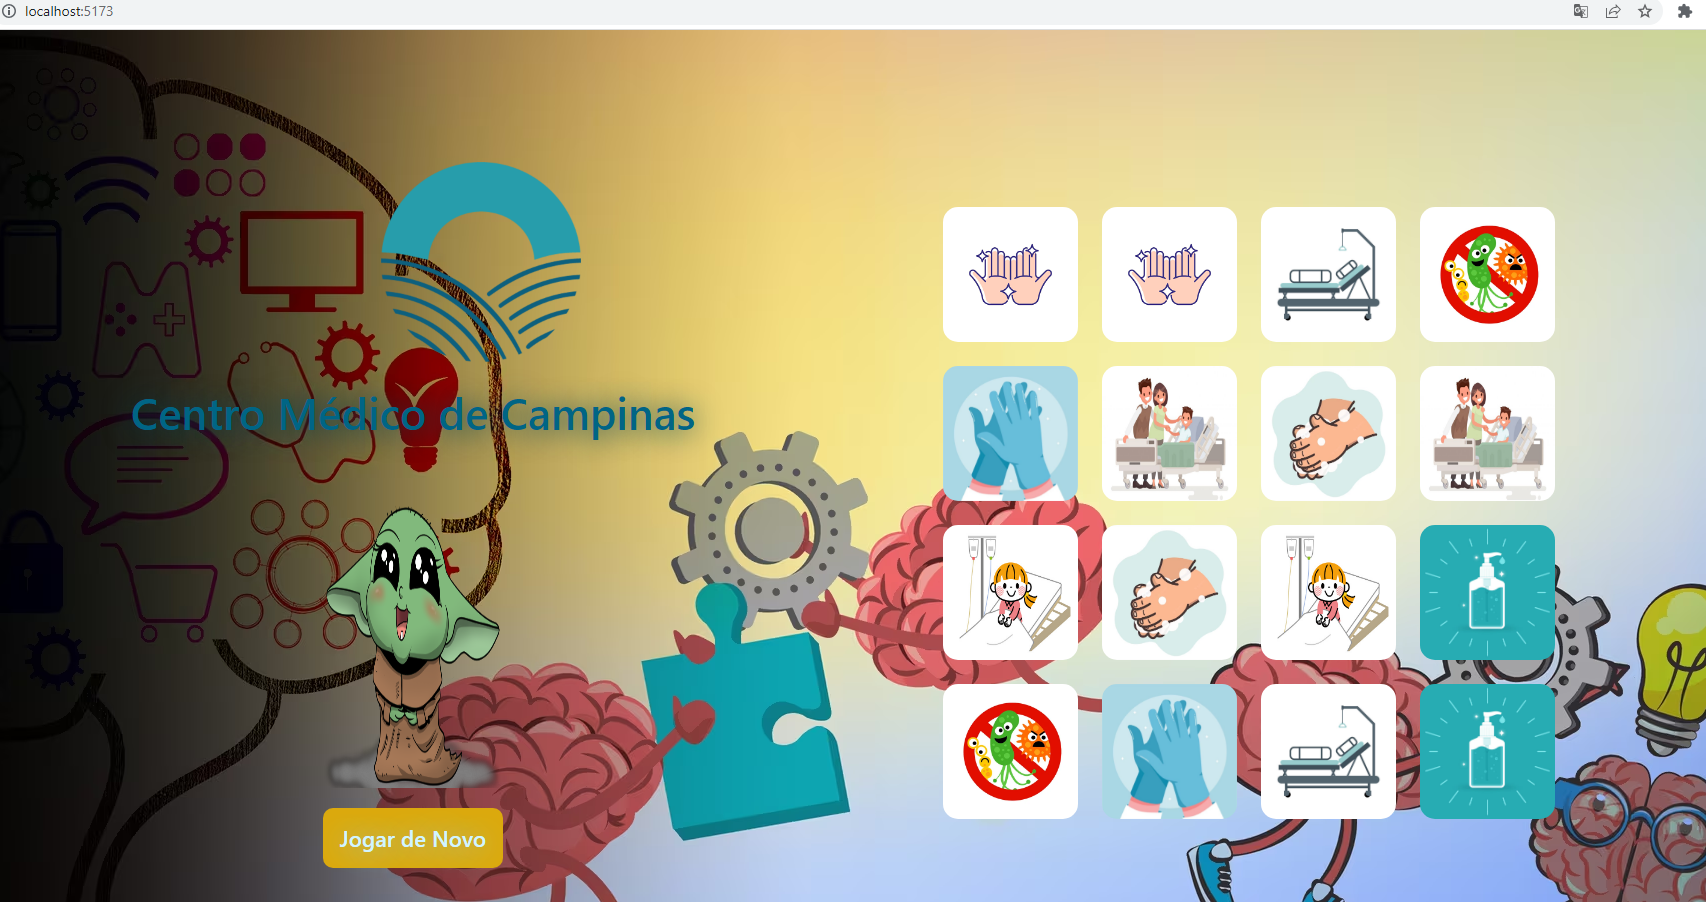
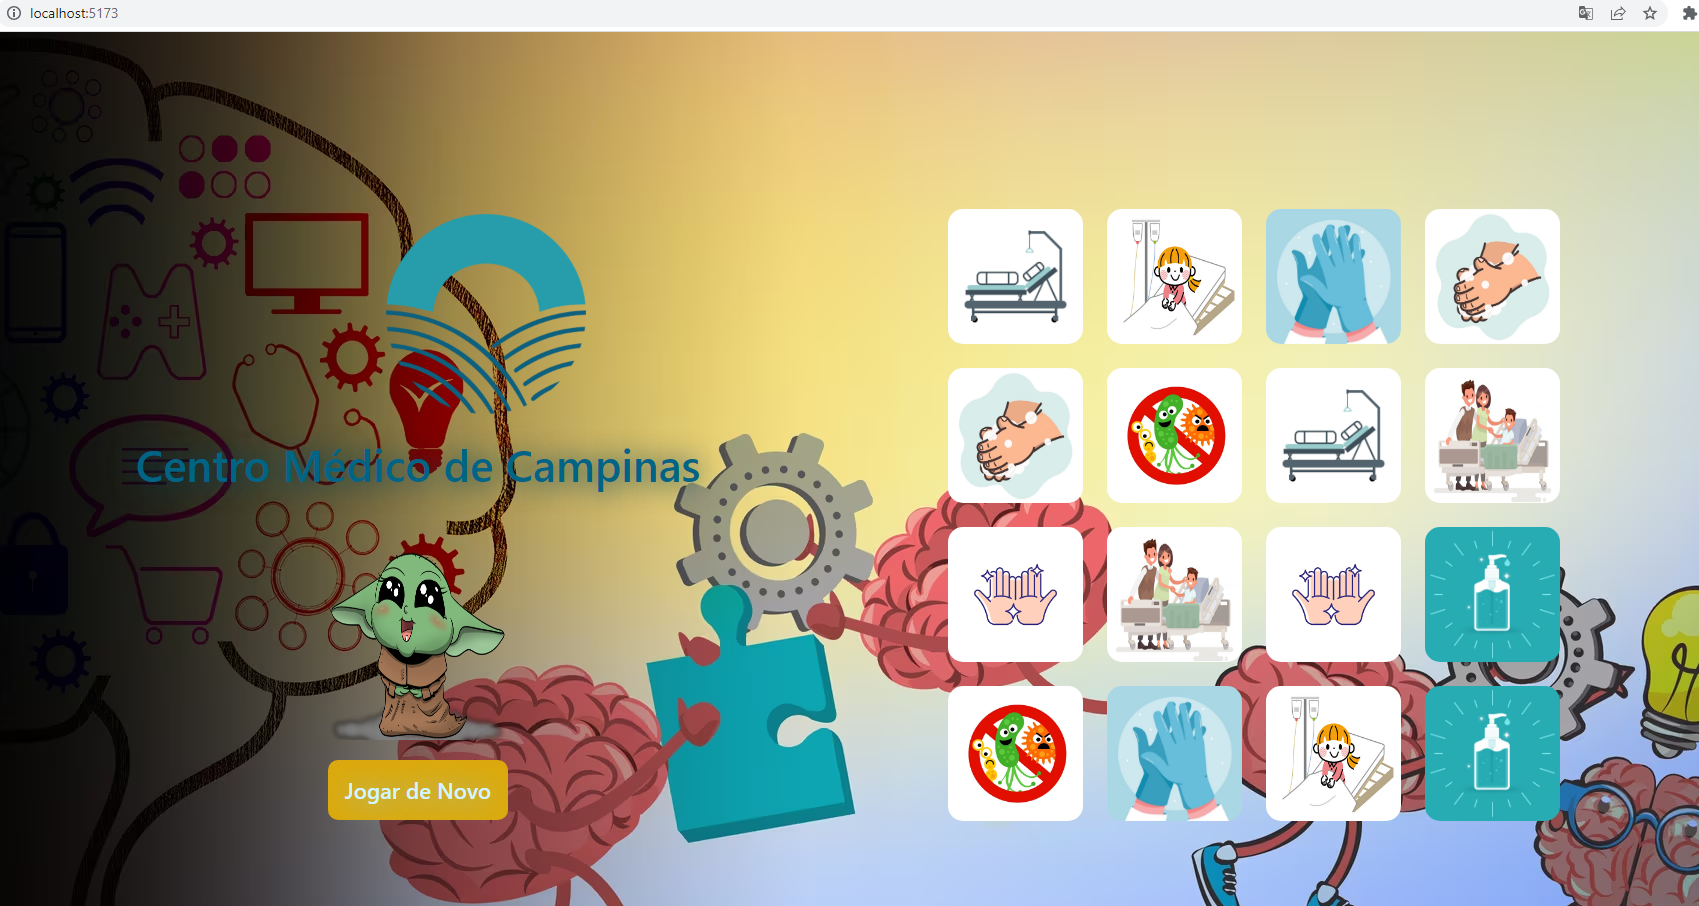
.

Changed region(s): [[0.0624, 0.1242, 1.0, 1.0], [0.0, 0.0, 1.0, 0.0621], [0.1248, 0.8071, 0.156, 0.8381]]

diff --git a/src/pages/App.tsx b/src/pages/App.tsx
@@ -135,7 +135,7 @@ const App = () => {
         <h1>Centro Médico de Campinas</h1>
         {gameWon && (
           <ContainerButton>
-            <img src={yoda} width={300} height={300} alt="yoda" />
+            <img src={yoda} width={200} height={200} alt="yoda" />
             <Button onClick={refreshPage}>Jogar de Novo</Button>
           </ContainerButton>
         )}
